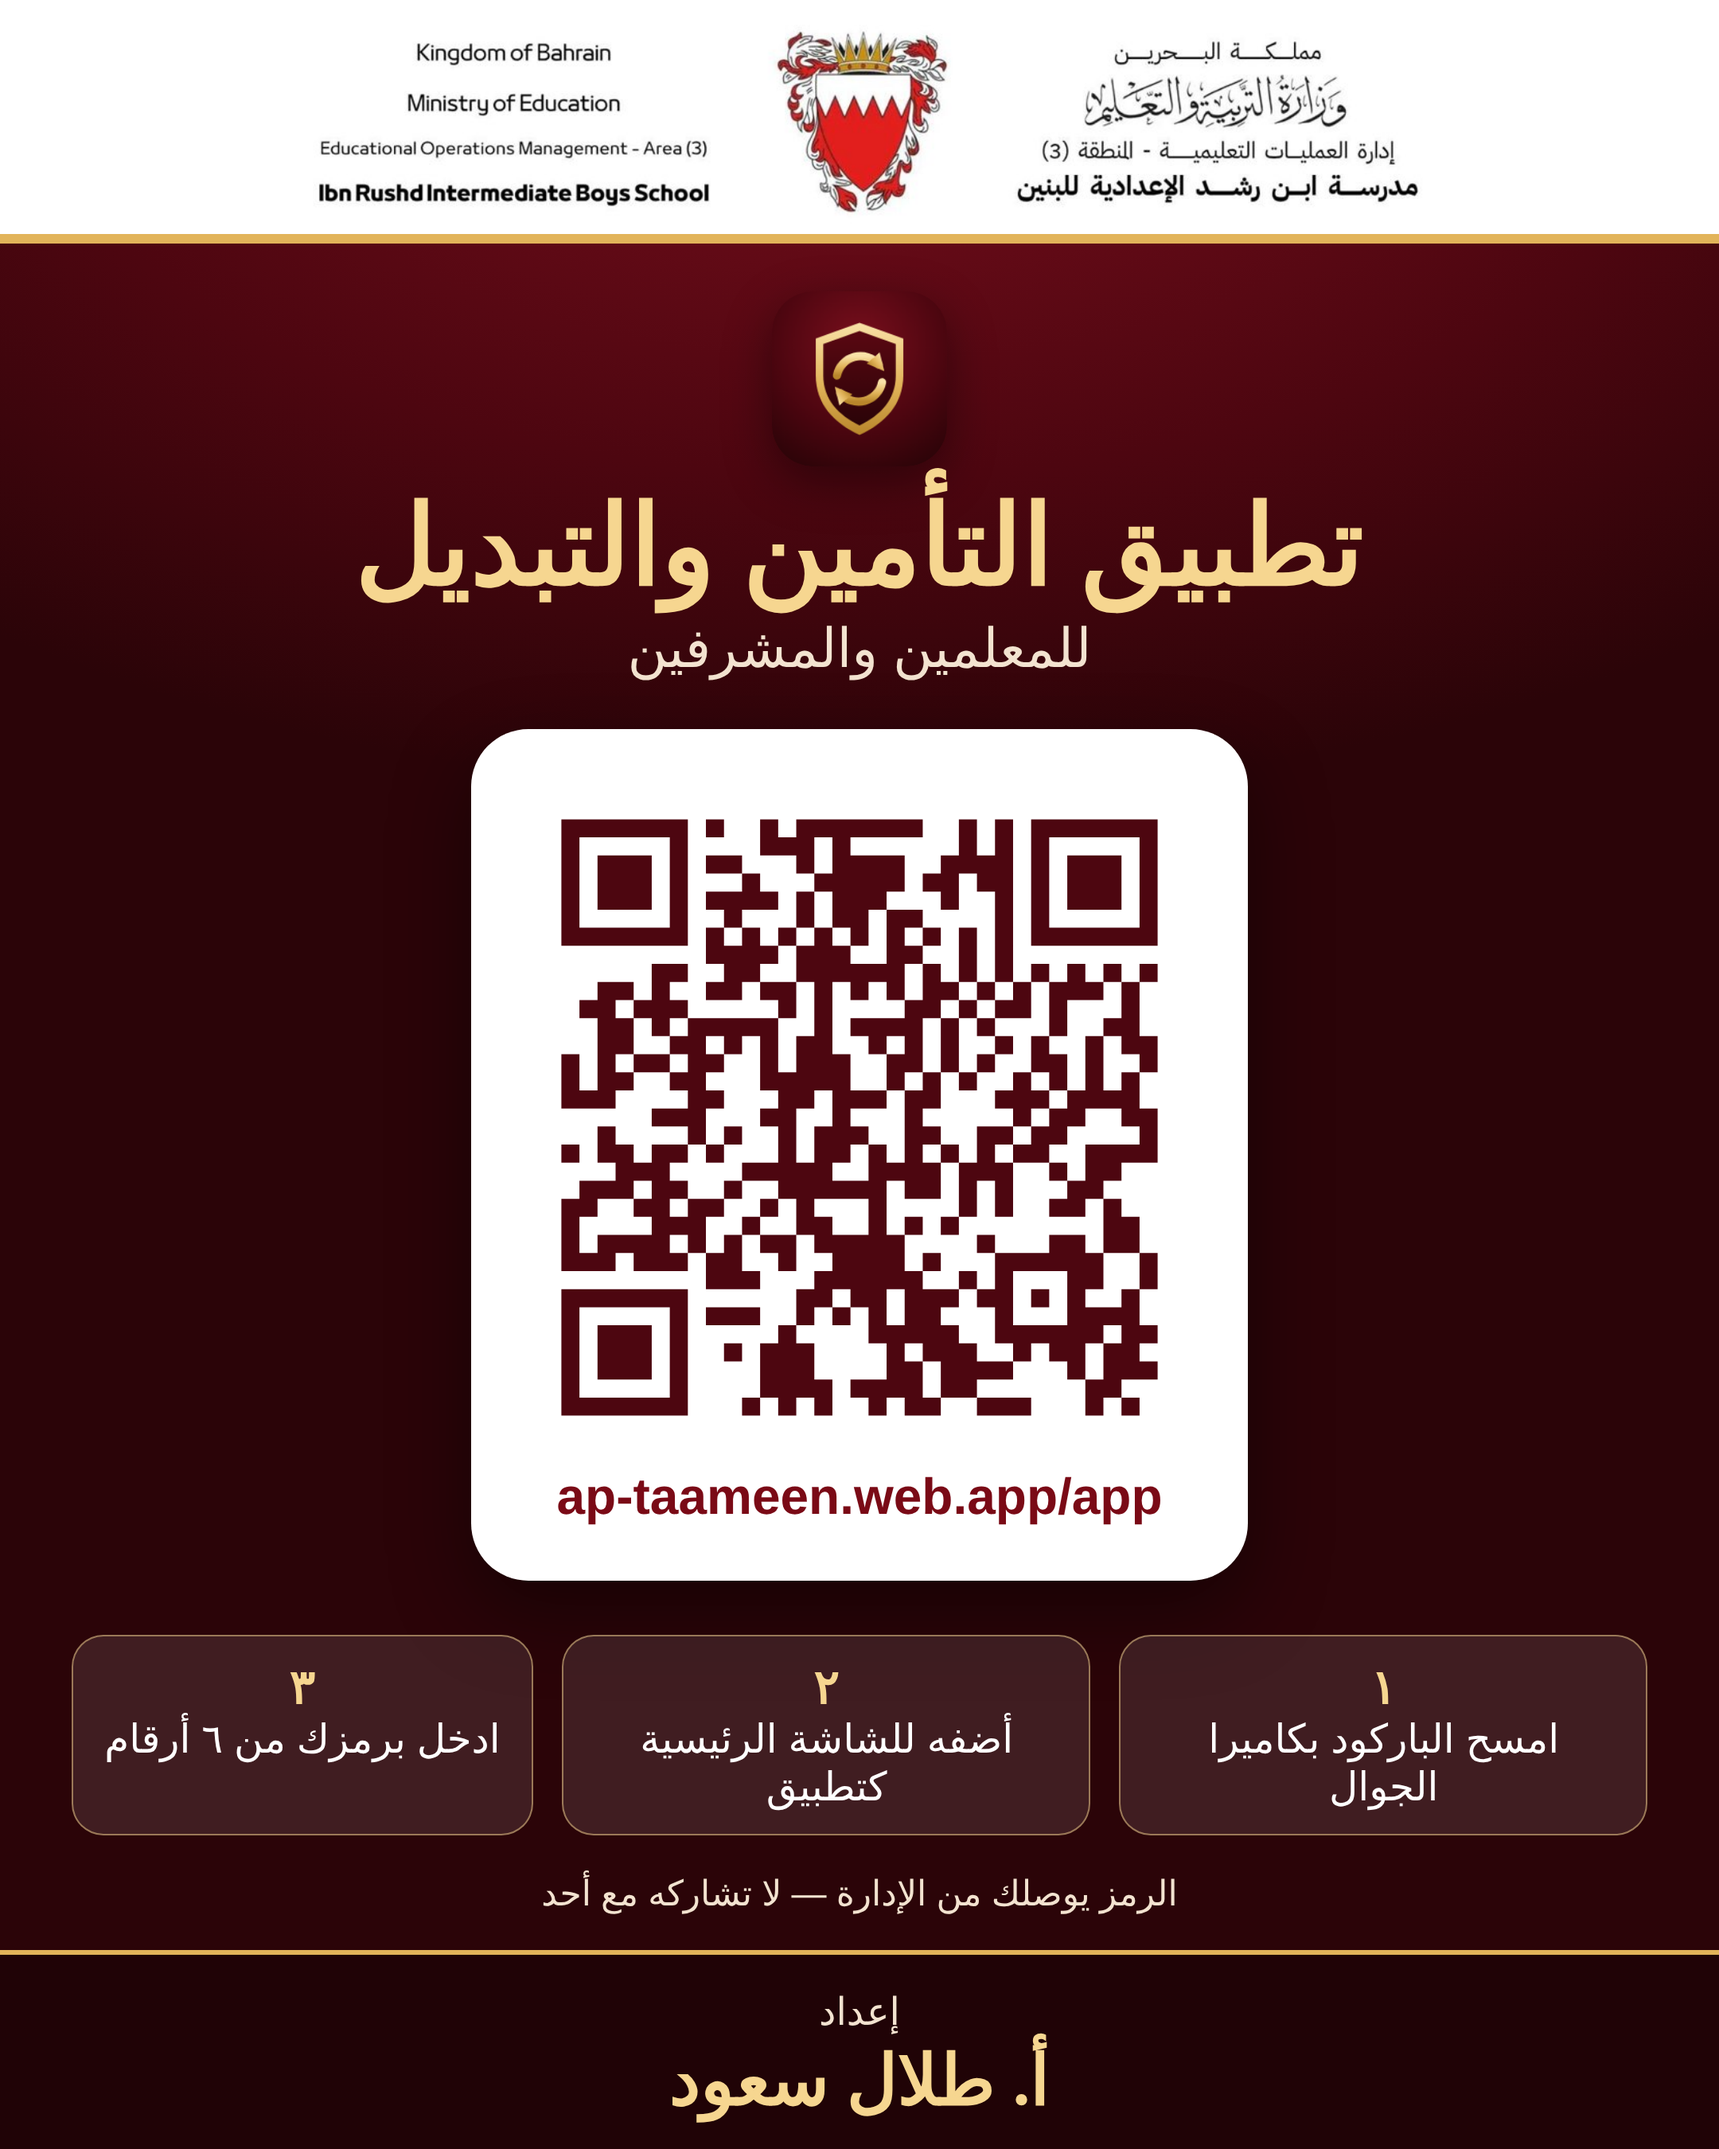
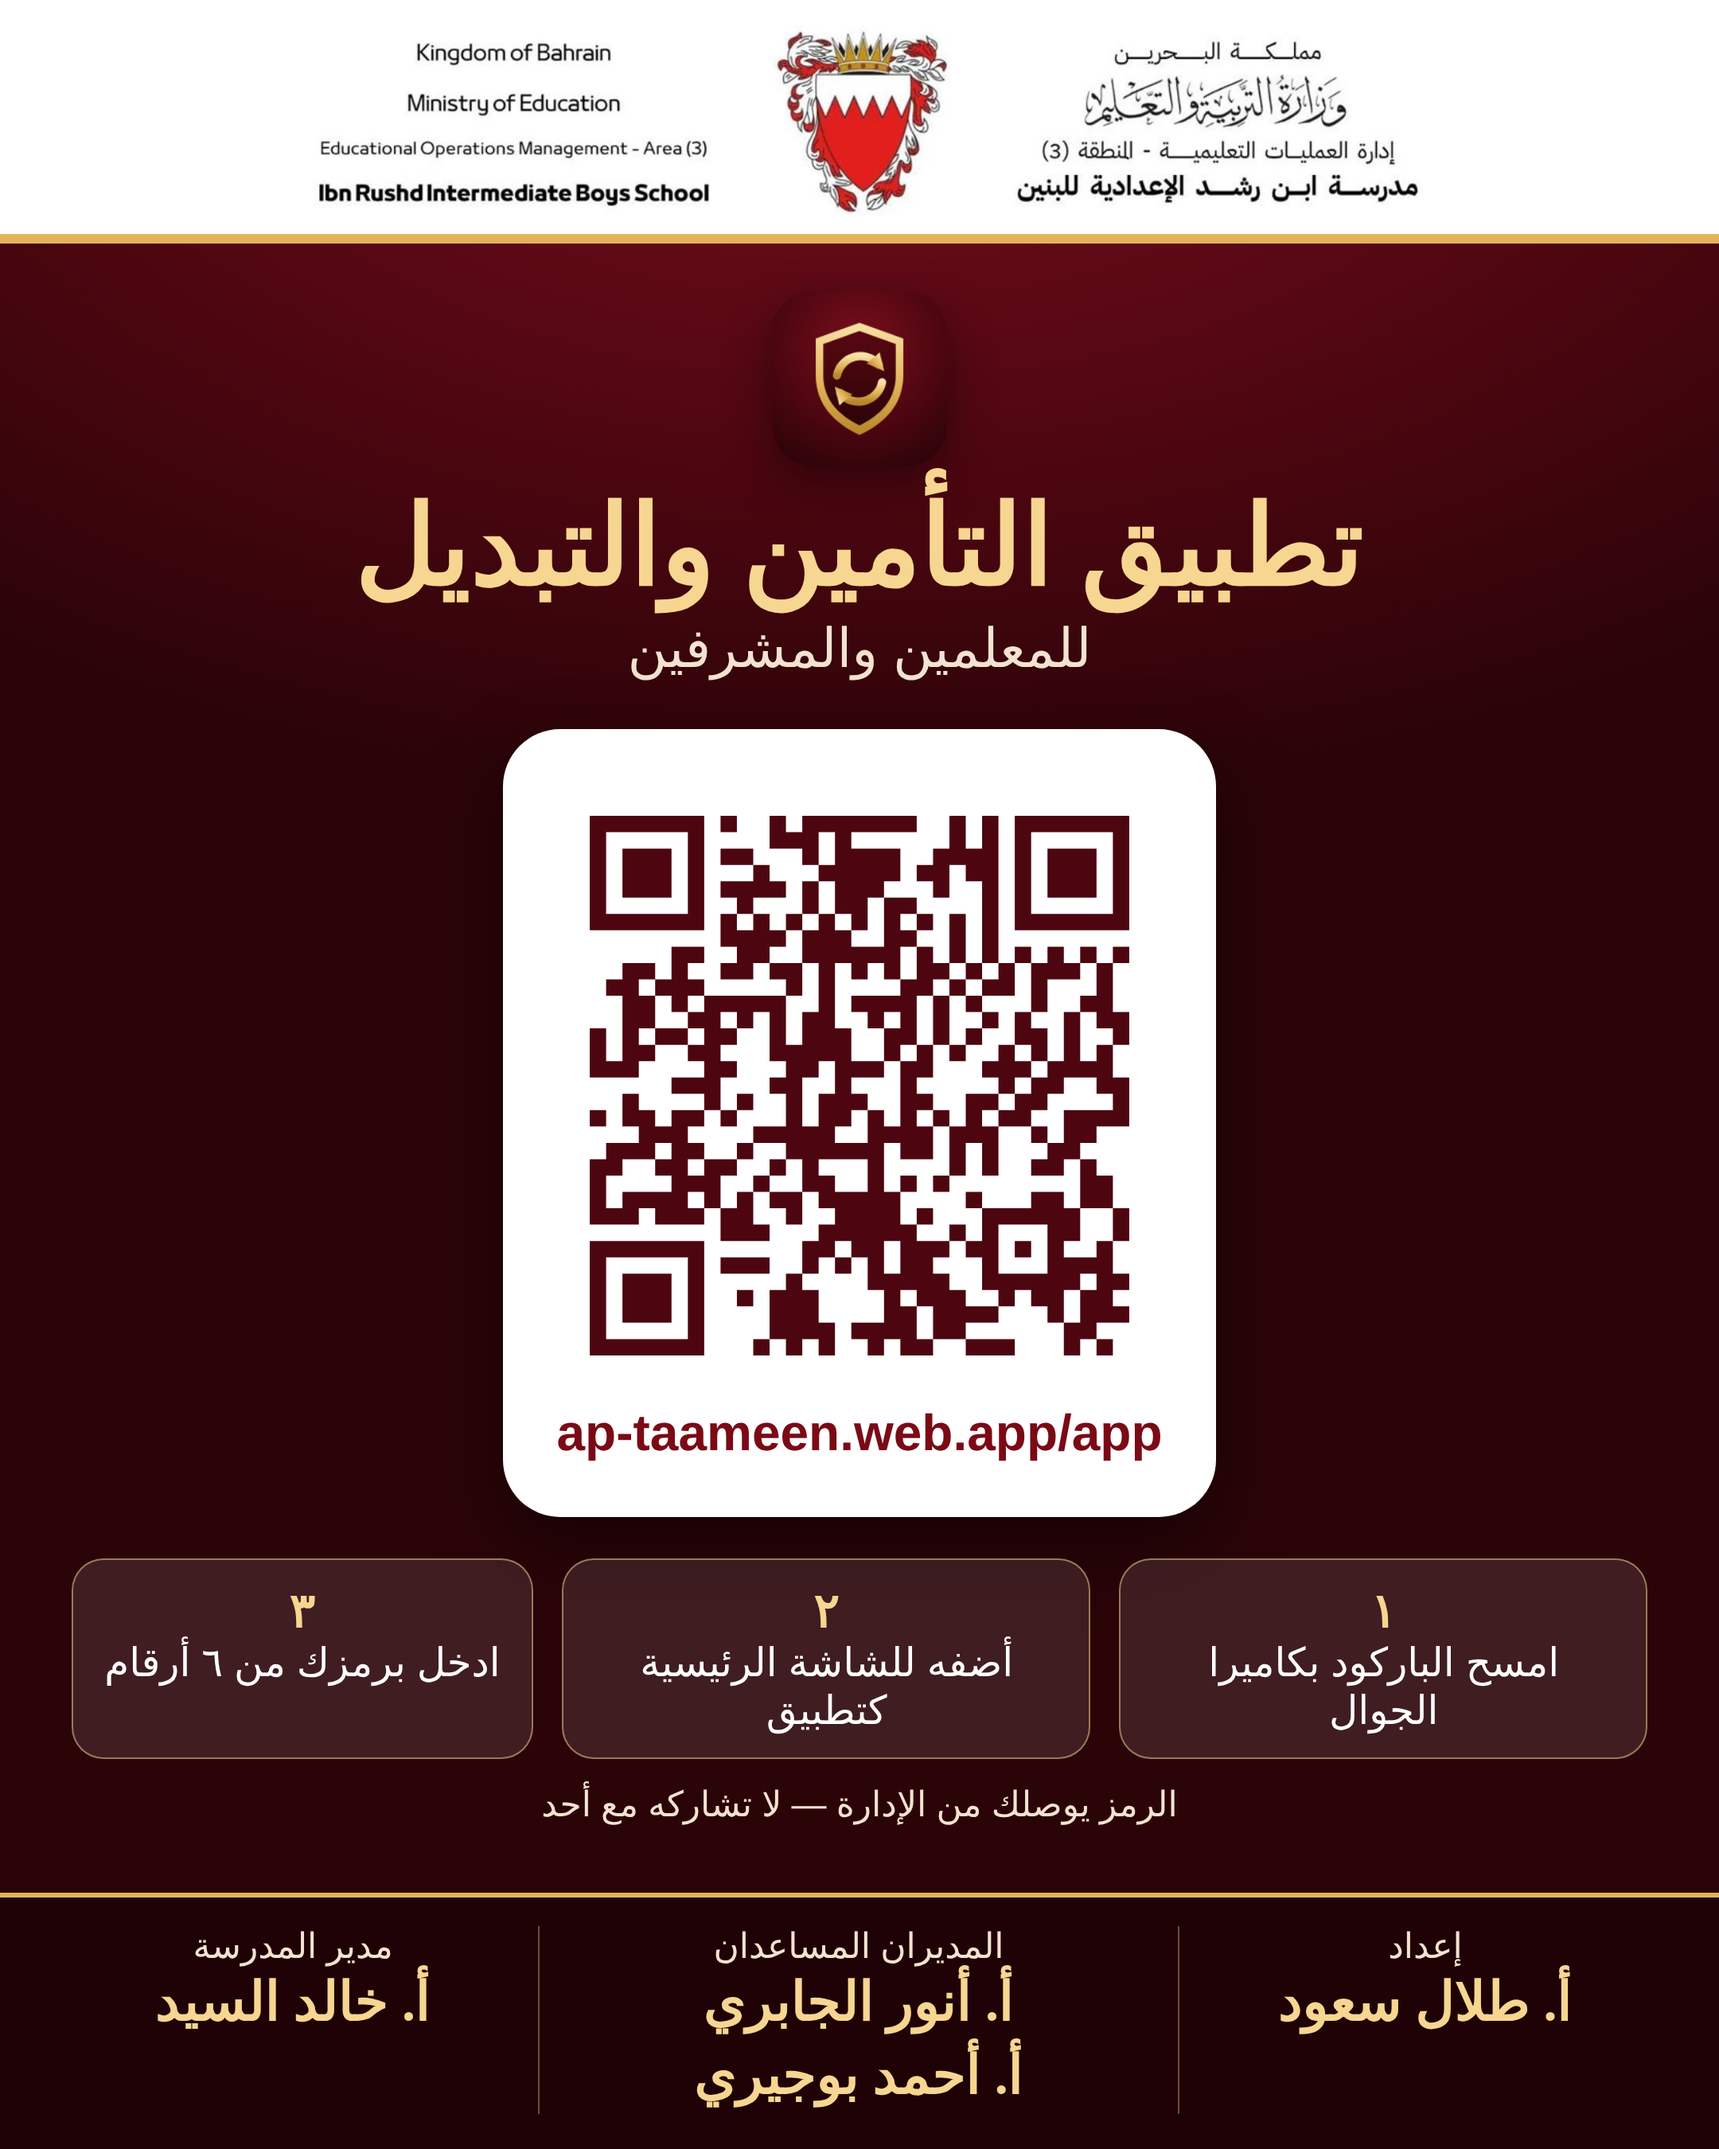
بطاقتا الباركود: شريط الإعداد والمديرين المساعدين والمدير
Claude-Session: https://claude.ai/code/session_01Aerc8waJ8ie4HTEwuUAws1

Changed region(s): [[0.031, 0.3422, 0.9616, 0.9956], [0.7444, 0.9022, 0.9306, 0.9644], [0.0931, 0.9022, 0.2481, 0.9644]]

diff --git a/docs/guides-src/qrcards.js b/docs/guides-src/qrcards.js
@@ -11,17 +11,17 @@ body{margin:0;width:1080px;height:1350px;font-family:R,sans-serif;background:rad
 h1{font-family:Am,serif;font-size:70px;margin:10px 0 0;color:#f6d690;line-height:1.2}
 h2{margin:0;font-size:34px;font-weight:400;color:#f3e3d0}
 .qr{background:#fff;border-radius:36px;padding:34px;margin-top:30px;box-shadow:0 20px 50px rgba(0,0,0,.45);text-align:center}
-.qr img{width:420px;height:420px;display:block}.qr b{display:block;direction:ltr;color:#7a0a16;font-size:32px;margin-top:10px}
-ol{list-style:none;padding:0;margin:34px 0 0;display:flex;gap:18px}
+.qr img{width:380px;height:380px;display:block}.qr b{display:block;direction:ltr;color:#7a0a16;font-size:32px;margin-top:10px}
+ol{list-style:none;padding:0;margin:26px 0 0;display:flex;gap:18px}
 li{background:rgba(255,255,255,.1);border:1px solid rgba(246,214,144,.5);border-radius:20px;padding:14px 20px;font-size:25px;max-width:290px;text-align:center}
 li i{font-style:normal;display:block;color:#f6d690;font-weight:700;font-size:30px}
-.nt{margin-top:24px;font-size:22px;color:#f3e3d0}
-.prep{margin-top:auto;width:100%;border-top:3px solid #e2b45a;background:rgba(0,0,0,.25);text-align:center;padding:22px 0 26px;font-size:24px;color:#f3e3d0}.prep b{display:block;font-family:Am,serif;font-size:44px;color:#f6d690;line-height:1.3}</style></head><body>
+.nt{margin:16px 0;font-size:22px;color:#f3e3d0}
+.prep{margin-top:auto;width:100%;border-top:3px solid #e2b45a;background:rgba(0,0,0,.28);display:grid;grid-template-columns:1fr 1.3fr 1fr;padding:18px 30px 22px;box-sizing:border-box;font-size:22px;color:#f3e3d0;text-align:center}.prep>div+div{border-inline-start:1px solid rgba(246,214,144,.35)}.prep b{display:block;font-family:Am,serif;font-size:34px;color:#f6d690;line-height:1.35}</style></head><body>
 <div class="hd"><img src="${b64(A + '/assets/header.jpg', 'image/jpeg')}"></div>
 <img class="ic" src="${b64(A + '/app/icon-192.png', 'image/png')}">
 <h1>${title}</h1><h2>${sub}</h2>
 <div class="qr"><img src="${b64(d + '/' + qr, 'image/svg+xml')}"><b>${url}</b></div>
-<ol>${steps.map((s, i) => `<li><i>${'١٢٣'[i]}</i>${s}</li>`).join('')}</ol>${note ? `<p class="nt">${note}</p>` : ''}<div class="prep">إعداد<b>أ. طلال سعود</b></div></body></html>`;
+<ol>${steps.map((s, i) => `<li><i>${'١٢٣'[i]}</i>${s}</li>`).join('')}</ol>${note ? `<p class="nt">${note}</p>` : ''}<div class="prep"><div>إعداد<b>أ. طلال سعود</b></div><div>المديران المساعدان<b>أ. أنور الجابري</b><b>أ. أحمد بوجيري</b></div><div>مدير المدرسة<b>أ. خالد السيد</b></div></div></body></html>`;
 (async () => {
   const b = await chromium.launch(); const p = await b.newPage({ viewport: { width: 1080, height: 1350 }, deviceScaleFactor: 2 });
   for (const [f, h] of [
